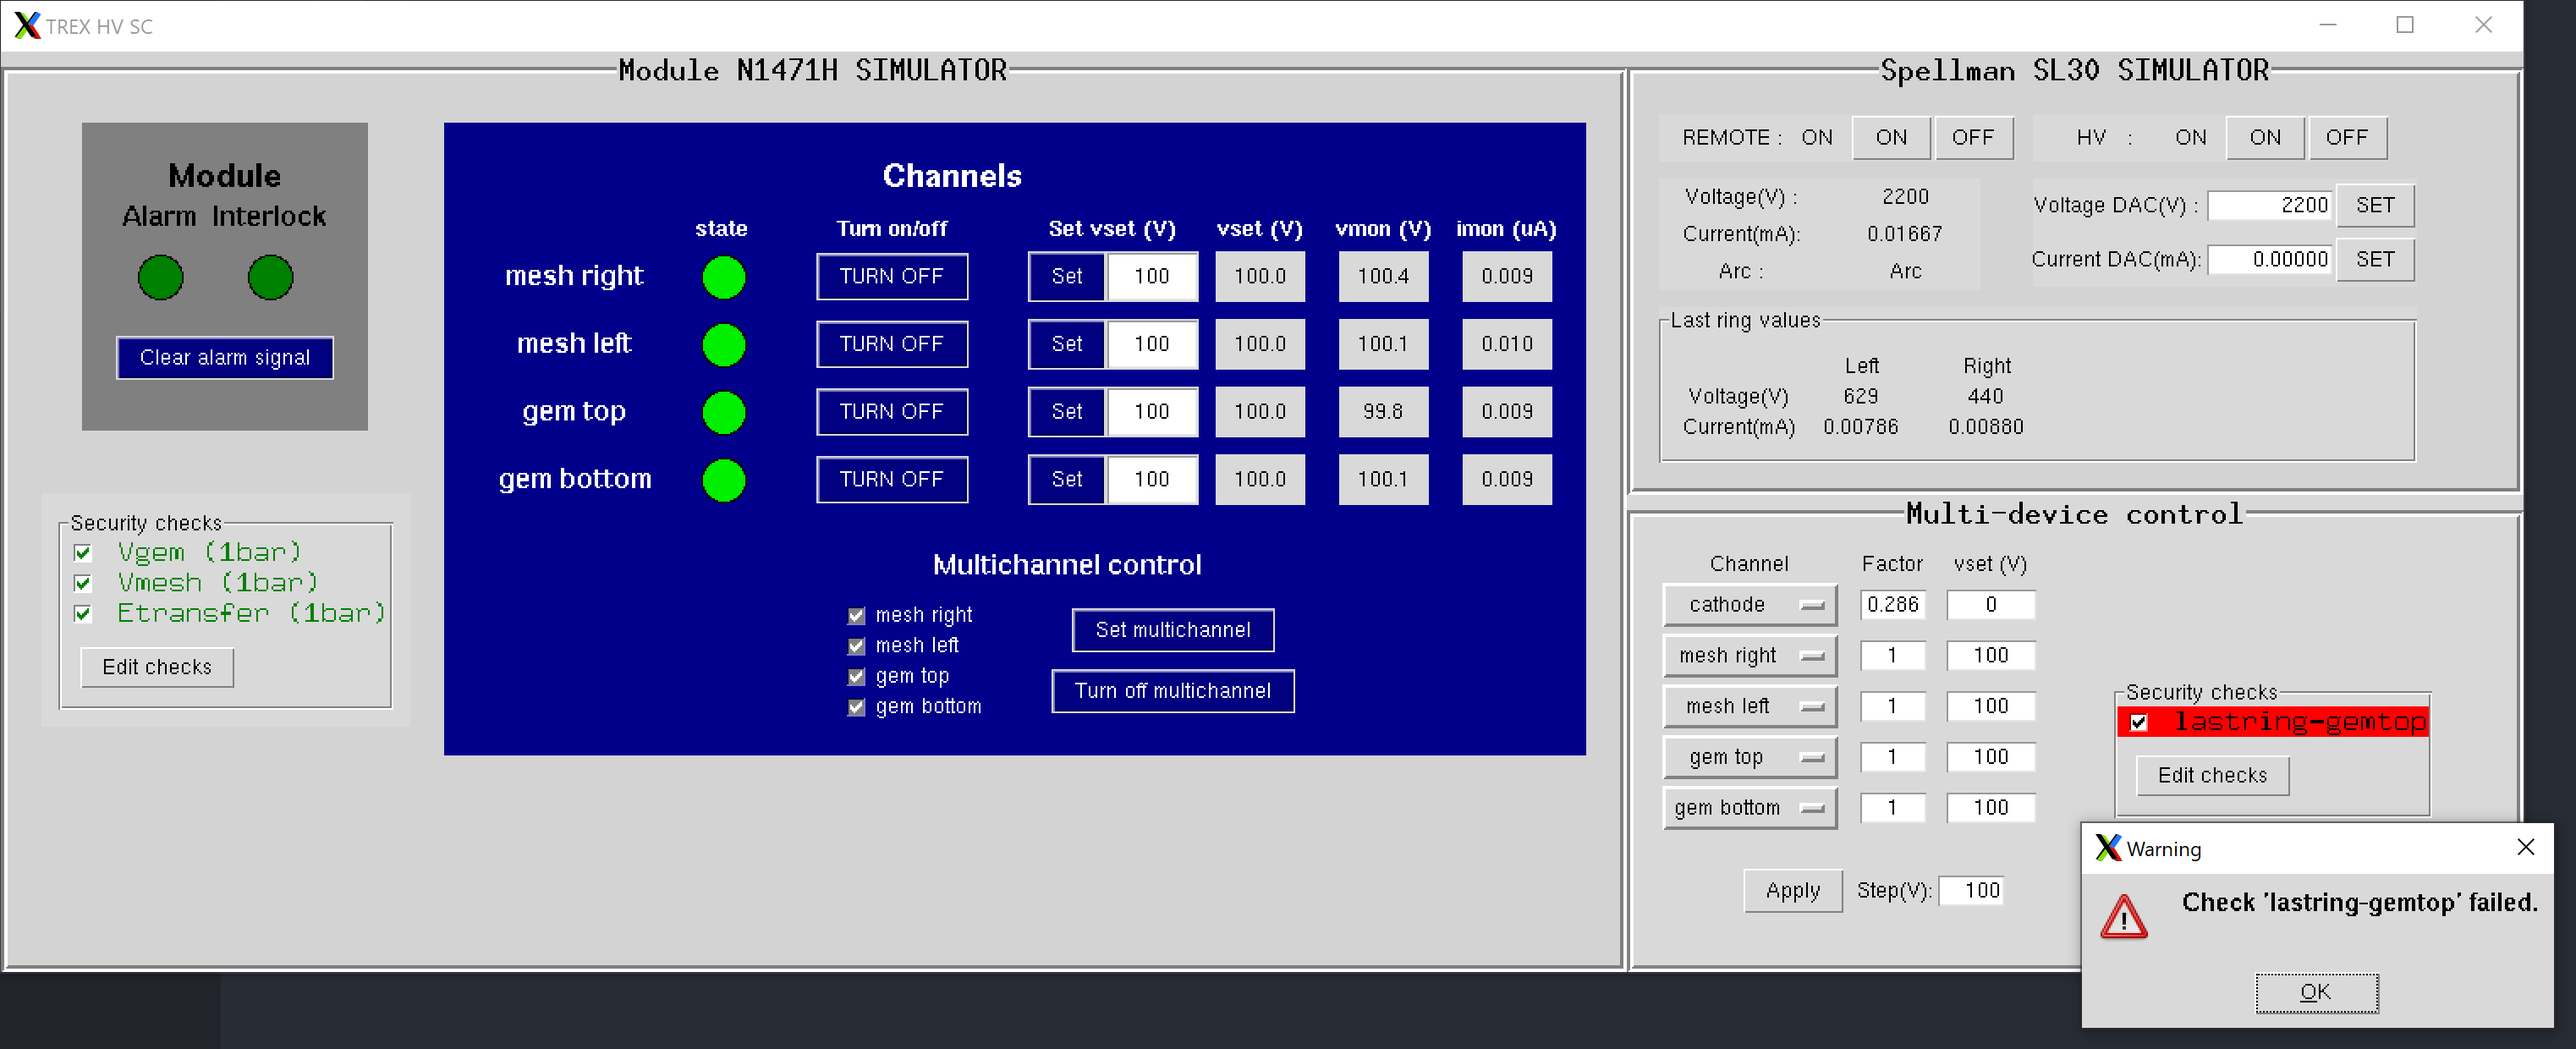
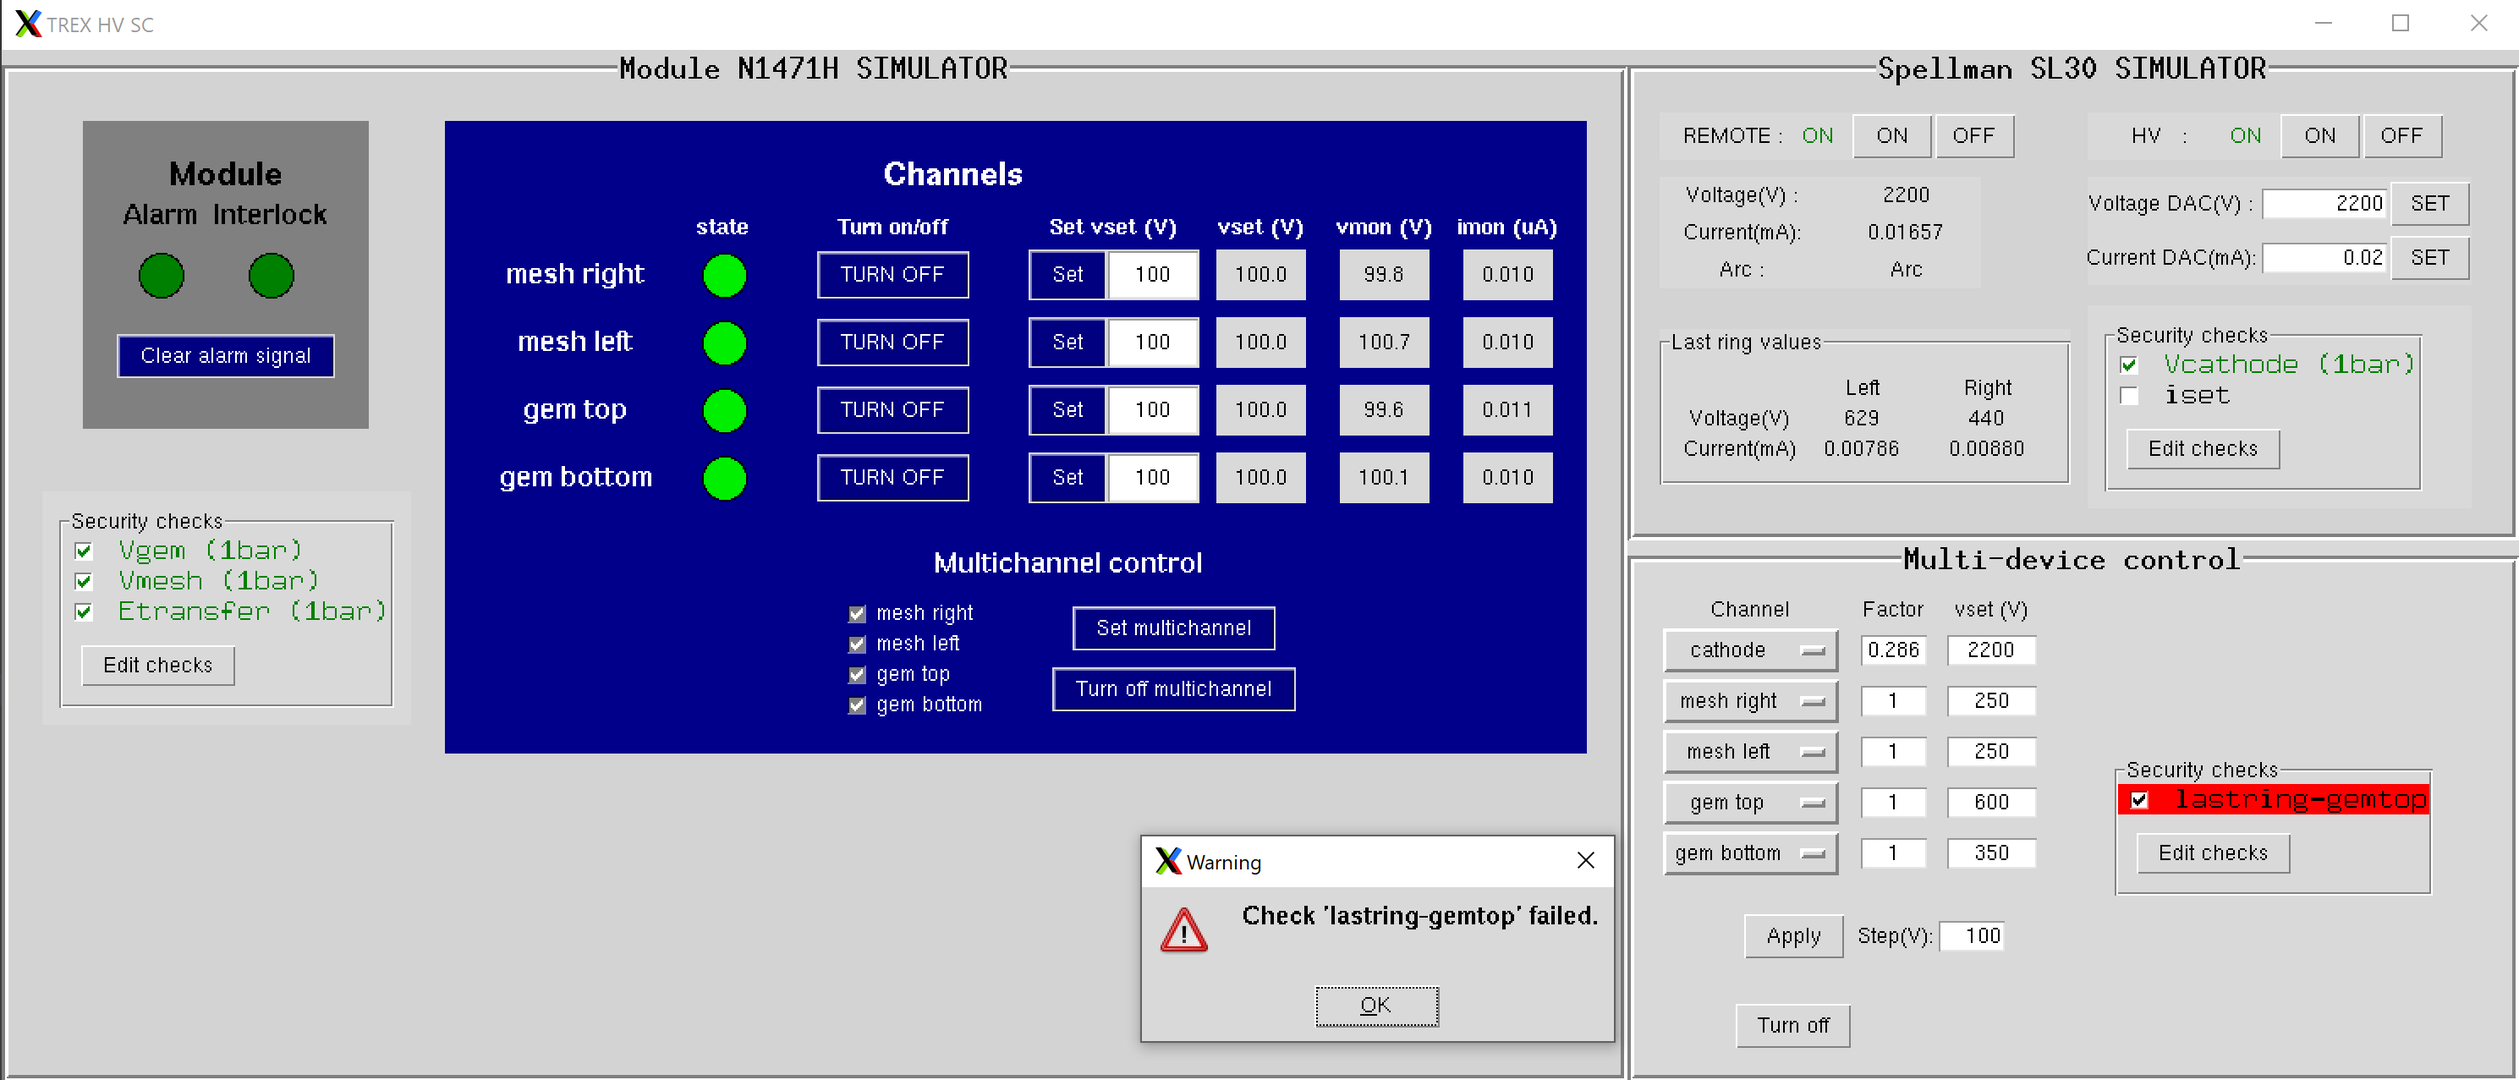
add turn off multidevice channels with protocol

Changed region(s): [[0.0, 0.0, 1.0, 1.0]]

diff --git a/trex_HV_gui.py b/trex_HV_gui.py
@@ -151,6 +151,9 @@ class HVGUI:
         apply_button = tk.Button(left_frame, text="Apply", command= lambda: self.raise_voltage_protocol_thread(self.step_var.get()))
         apply_button.grid(row=n_rows+1, column=0, columnspan=2, pady=20)
 
+        turn_off_button = tk.Button(left_frame, text="Turn off", command= lambda: self.turn_off_protocol_thread(self.step_var.get()))
+        turn_off_button.grid(row=n_rows+2, column=0, columnspan=2, pady=5)
+
         right_frame = tk.Frame(self.multidevice_frame, padx=10, pady=10)
         right_frame.pack(side="left", anchor="center", padx=20)
         all_devices_locks = tuple([gui.device_lock for gui in self.all_guis.values()])
@@ -169,6 +172,20 @@ class HVGUI:
             return
 
         threading.Thread(target=self.raise_voltage_protocol, args=(step_number,)).start()
+
+    def turn_off_protocol_thread(self, step = 100):
+        try:
+            step_number = float(step)
+        except ValueError:
+            print("Invalid step value")
+            self.step_var.set("100")
+            return
+        if step_number <= 0 or step_number > 100:
+            print("Step value must be between 0 and 100")
+            self.step_var.set("100")
+            return
+
+        threading.Thread(target=self.turn_off_protocol, args=(step_number,)).start()
 
     def raise_voltage_protocol(self, step = 100, timeout = 60):
         # final_vset = {'cathode' : 2000, 'gem top' : 600, 'gem bottom' : 350, 'mesh left' : 250}
@@ -255,7 +272,7 @@ class HVGUI:
             # apply vsets to the channels
             for ch, v in temp_vset.items():
                 if get_vmon(ch) > v:
-                    print(f"Voltage monitor for channel {ch} is higher than the setpoint. Skipping the step.")
+                    #print(f"Voltage monitor for channel {ch} is higher than the setpoint. Skipping the step.")
                     continue
                 # change the vset entry to the new value (emulate the human manually changing the value)
                 self.channels_vset_guientries[ch].delete(0, tk.END)
@@ -292,6 +309,126 @@ class HVGUI:
 
         if self.step_entry:
             self.step_entry.config(state="normal")
+
+    def turn_off_protocol(self, step=100, timeout=60):
+        def get_vmon(ch_name):
+            label = self.channels_vmon_guilabel[ch_name]
+            vmon = -1
+            if label is not None:
+                if "cget" in dir(label):
+                    vmon = float(label.cget("text"))
+                else:
+                    vmon = float(label.get())
+            else:
+                with self.channels_gui[ch_name].device_lock:
+                    vmon = self.all_channels[ch_name].vmon
+            return vmon
+
+        current_vset = {}
+        factors = {}
+        for i, ch in enumerate(self.channel_optmenus):
+            if ch.cget("text") == "":
+                continue
+            current_vset[ch.cget("text")] = float(self.channels_vset_guientries[ch.cget("text")].get())
+            factors[ch.cget("text")] = float(self.factor_entries[i].get())
+        
+        if len(current_vset) < 1: # makes no sense to use this with less than 2 channels
+            print("No valid voltage setpoints found")
+            return
+        
+        # check that all channels involved are on
+        for ch in current_vset.keys():
+            if ch not in self.all_channels.keys():
+                print(f"Channel {ch} not found in the list of available channels")
+                return
+            with self.channels_gui[ch].device_lock:
+                if not self.all_channels[ch].on:
+                    print(f"WARNING: Channel {ch} is already off.")
+        
+        if self.step_entry:
+            self.step_entry.config(state="disabled")
+
+        temp_vset = current_vset # initialize the temporary voltage setpoints
+
+        max_vset = max([round(v*f) for v, f in zip(current_vset.values(), factors.values())])
+        n_steps = int( max_vset / step ) + 1
+        print(f"Number of steps: {n_steps}")
+        channels_reached = 0
+        for _ in range(n_steps):
+            temp_vset = {k: round(t-step/f) for k, t, f in zip(current_vset.keys(), temp_vset.values(), factors.values())}
+            if any([t <= 0 for t in temp_vset.values()]):
+                channels_reached += 1
+            for ch in temp_vset.keys():
+                temp_vset[ch] = 0 if temp_vset[ch] <= 0 else temp_vset[ch]
+            print(f"Step {_+1}: {temp_vset}")
+
+            # simulate the checks results before applying the new vsets
+            parameters_values = {}
+            for ch, v in temp_vset.items():
+                parameters_values[ch.replace(" ", "") + ".vset"] = v
+            # multidevice checks
+            if not self.checksframe.simulate_check_conditions(parameters_values):
+                print("Step did not pass the multidevice checks.")
+                if self.step_entry:
+                    self.step_entry.config(state="normal")
+                return
+            # individual device checks
+            for device, gui in self.all_guis.items():
+                try:
+                    if not gui.checksframe.simulate_check_conditions(parameters_values):
+                        print(f"Step did not pass the {device} checks.")
+                        if self.step_entry:
+                            self.step_entry.config(state="normal")
+                        return
+                except AttributeError:
+                    pass
+
+            # apply vsets to the channels
+            for ch, v in temp_vset.items():
+                if get_vmon(ch) < v:
+                    # print(f"Voltage monitor for channel {ch} is lower than the setpoint. Skipping the step.")
+                    continue
+                # change the vset entry to the new value (emulate the human manually changing the value)
+                self.channels_vset_guientries[ch].delete(0, tk.END)
+                self.channels_vset_guientries[ch].insert(0, str(v))
+                channel = self.all_channels[ch]
+                try:
+                    self.channels_gui[ch].issue_command(channel.vset(v))
+                except (AttributeError, TypeError):
+                    channel.vset = v
+                except Exception as e:
+                    print(f"Error setting voltage for channel {ch}: {e}")
+                    if self.step_entry:
+                        self.step_entry.config(state="normal")
+                    return
+                # self.all_channels[ch].vset = v
+
+            # wait for the channels to reach the setpoints
+            all_channels_reached = False
+            time_waiting = 0
+            while not all_channels_reached:
+                all_channels_reached = True
+                for ch in temp_vset.keys():
+                    vmon = get_vmon(ch)
+                    if vmon - temp_vset[ch] > 13:
+                        all_channels_reached = False
+                        break
+                time.sleep(1) # wait 1 second before next check
+                time_waiting += 1
+                if time_waiting > timeout:
+                    print("Timeout waiting for channels to reach the setpoints.")
+                    break
+
+            time.sleep(2) # wait seconds before next step
+
+            # turn off the channels
+            for ch in temp_vset.keys():
+                with self.channels_gui[ch].device_lock:
+                    self.all_channels[ch].turn_off()
+
+        if self.step_entry:
+            self.step_entry.config(state="normal")
+
 
 if __name__ == "__main__":
     

diff --git a/simulators.py b/simulators.py
@@ -238,6 +238,12 @@ class SpellmanSimulator:
     def hv_off(self):
         self.stat['HV'] = False
     
+    def turn_on(self):
+        self.hv_on()
+
+    def turn_off(self):
+        self.hv_off()
+
     def status(self):
         return self.stat
     

diff --git a/spellmanClass.py b/spellmanClass.py
@@ -260,3 +260,9 @@ class Spellman:
             return ans[0],ans[1]
         except Exception:
             return ''
+
+    def turn_on(self):
+        return self.hv_on()
+
+    def turn_off(self):
+        return self.hv_off()

diff --git a/README.md b/README.md
@@ -1,13 +1,14 @@
 # TREX-DM Slow Control HV
 
 This repository contains software for remote control and monitoring of high voltage (HV) power supplies, primarily used for the TREX-DM experiment.
+
 ![CAEN HV power supply GUI.](docs/maingui_withfailedcheck.PNG)
 
 ## Features
 - Graphical User Interface (GUI) for individual and multiple HV power supply devices. Including:
    - Security checks for individual and multiple devices.
    - Register of voltage and current monitor values of the channels of each device.
-   - Automatic multidevice raising of voltages following the standard protocol (raising all channels involved voltages simultaneously by steps.)
+   - Automatic multidevice raising of voltages and turning off following the standard protocol (raising or lowering all channels involved voltages simultaneously by steps).
    - Alert message to slack webhook when the CAEN device is in alarm state (to do so, copy your slack webhook in the function `send_slack_message` of [caengui.py](caengui.py)).
 - CAEN and Spellman SL30 simulators for testing without hardware.
 
